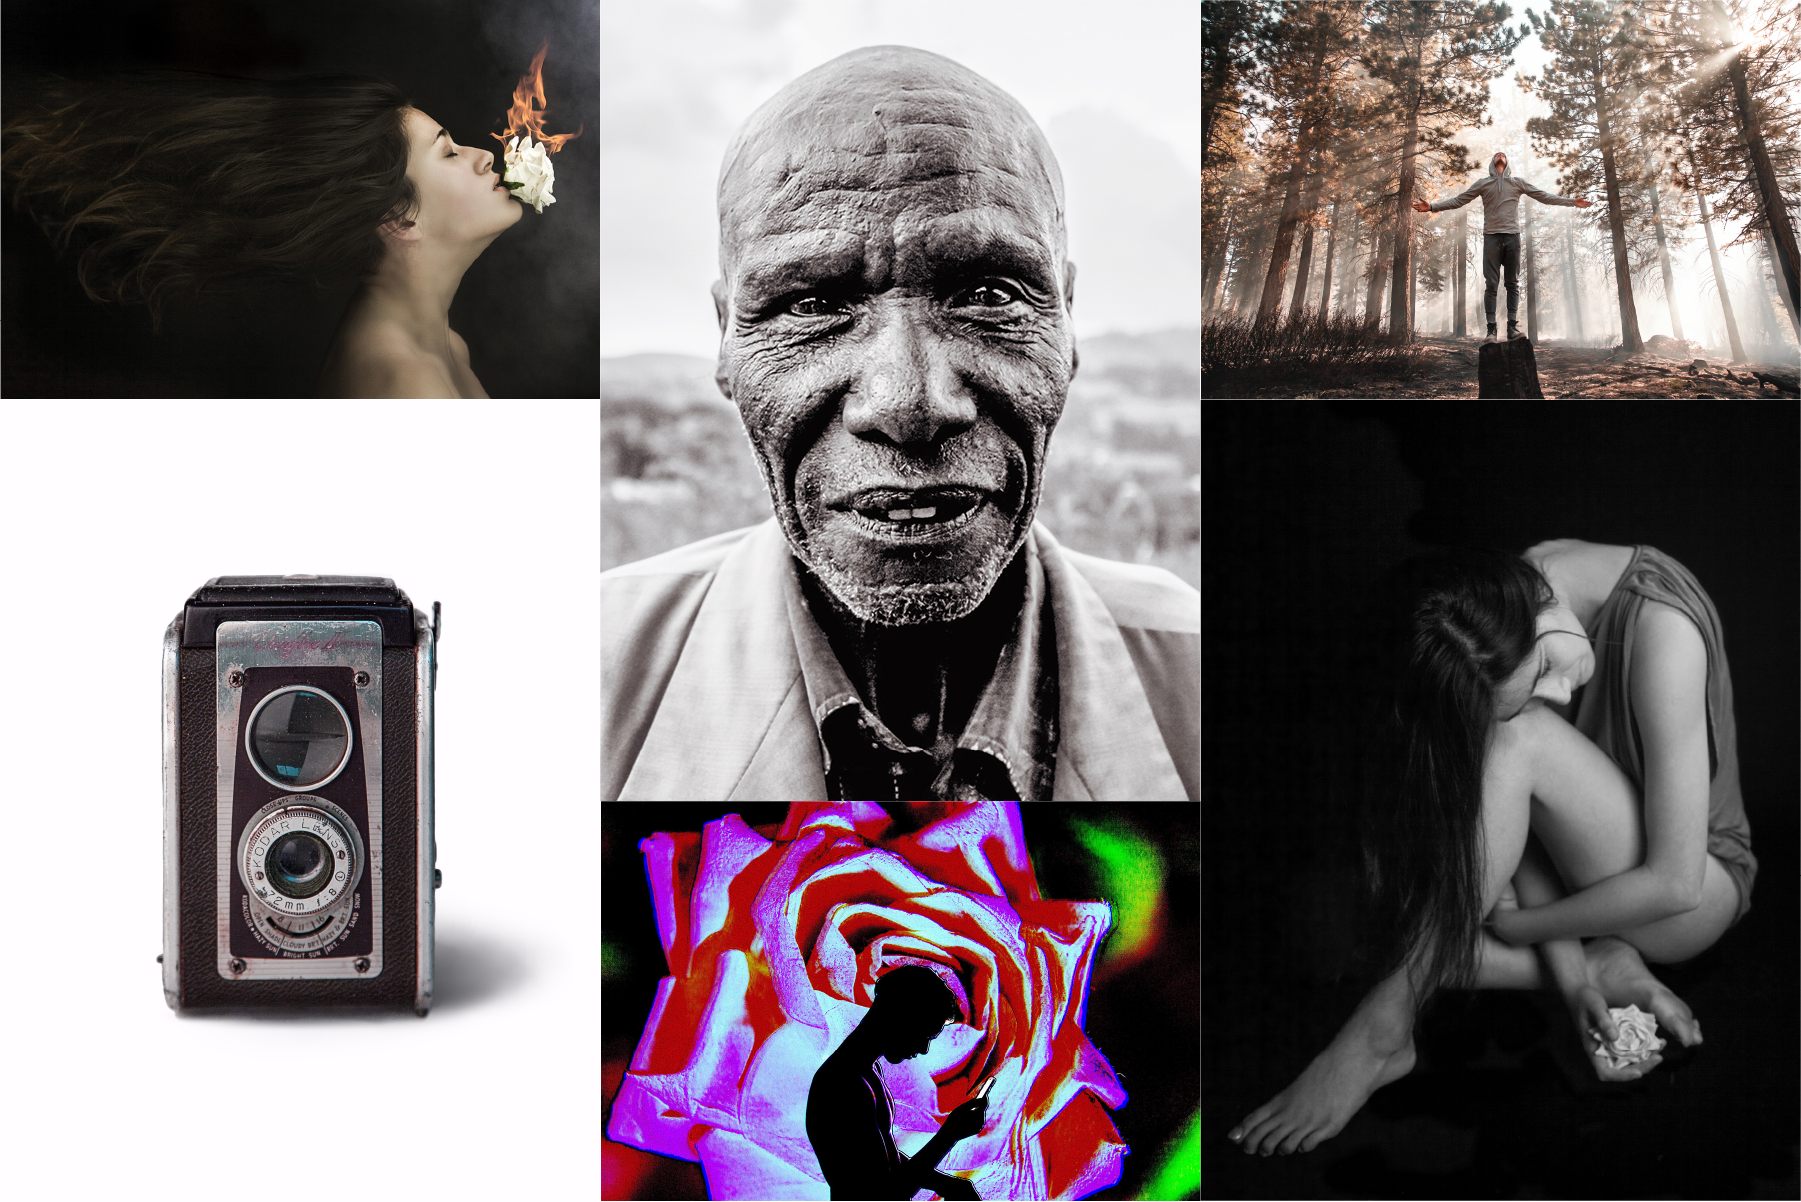
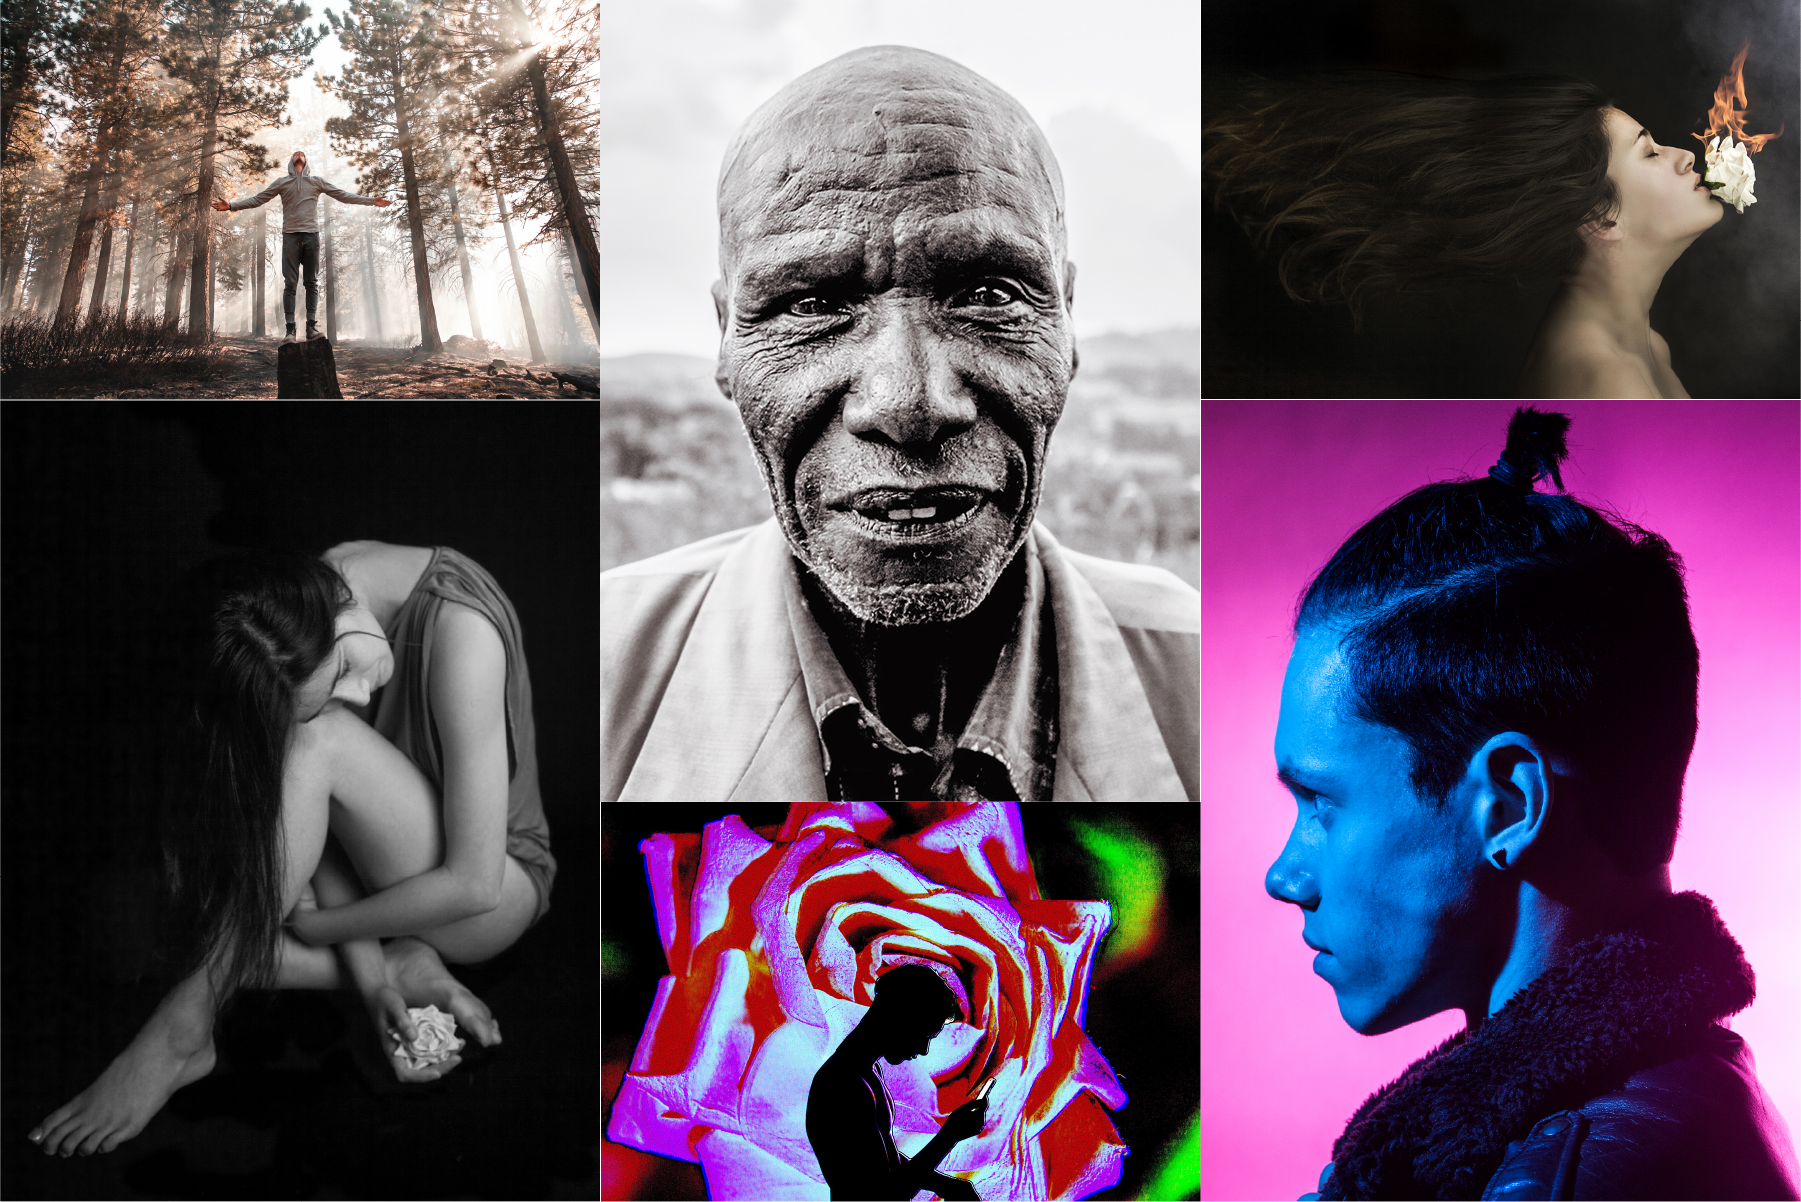
updated photo gallery

diff --git a/src/pages/work.tsx b/src/pages/work.tsx
@@ -50,21 +50,21 @@ export function Work() {
               </div>
             </div>
           </Link>
+          <Link to="/photo">
+            <div className="titleCard">
+              <img src={photoTC} alt="Kings & Queens title card" />
+              <div className="projectInfo">
+                <h1>Photography</h1>
+                <h3>2015 - 2020</h3>
+              </div>
+            </div>
+          </Link>
           <Link to="/kqt">
             <div className="titleCard">
               <img src={kingsAndQueensTC} alt="Kings & Queens title card" />
               <div className="projectInfo">
                 <h1>Kings & Queens • Typeface</h1>
                 <h3>2019</h3>
-              </div>
-            </div>
-          </Link>
-          <Link to="/photo">
-            <div className="titleCard">
-              <img src={photoTC} alt="Kings & Queens title card" />
-              <div className="projectInfo">
-                <h1>Photography</h1>
-                <h3>2016 - 2020</h3>
               </div>
             </div>
           </Link>

diff --git a/src/pages/photo.tsx b/src/pages/photo.tsx
@@ -18,9 +18,9 @@ export function Photo() {
     <>
       <main className="projectPage">
         <section className="projectDetails">
-          <h1>Photography • 2016 - 2020</h1>
-          <h3>Deliverables: ~100 photographs</h3>
-          <p>An overview of the work I've done as a photographer. Mostly portraits, landscapes, and artsy composites.</p>
+          <h1>Photography • 2015 - 2020</h1>
+          <h3>Deliverables: 40 images</h3>
+          <p>People, places, & things I've photographed.</p>
         </section>
         <section className="gallery">
           <div className="imageGrid">

diff --git a/src/assets/images.js b/src/assets/images.js
@@ -36,11 +36,14 @@ for (let i = 1; i < gmHLImageCount; i++) {
 
 // Photo
 export const photoImages = [];
-const photoImageCount = 10;
-const photoPNGNumbers = [];
+const photoImageCount = 40;
+const photoPNGNumbers = [28, 36, 37];
+const photoJPGNumbers = [24];
 for (let i = 0; i < photoImageCount; i++) {
   if (photoPNGNumbers.includes(i)) {
     photoImages.push(require(`../images/photo/${i}.png`));
+  } else if (photoJPGNumbers.includes(i)) {
+    photoImages.push(require(`../images/photo/${i}.JPG`));
   } else {
     photoImages.push(require(`../images/photo/${i}.jpg`));
   }
